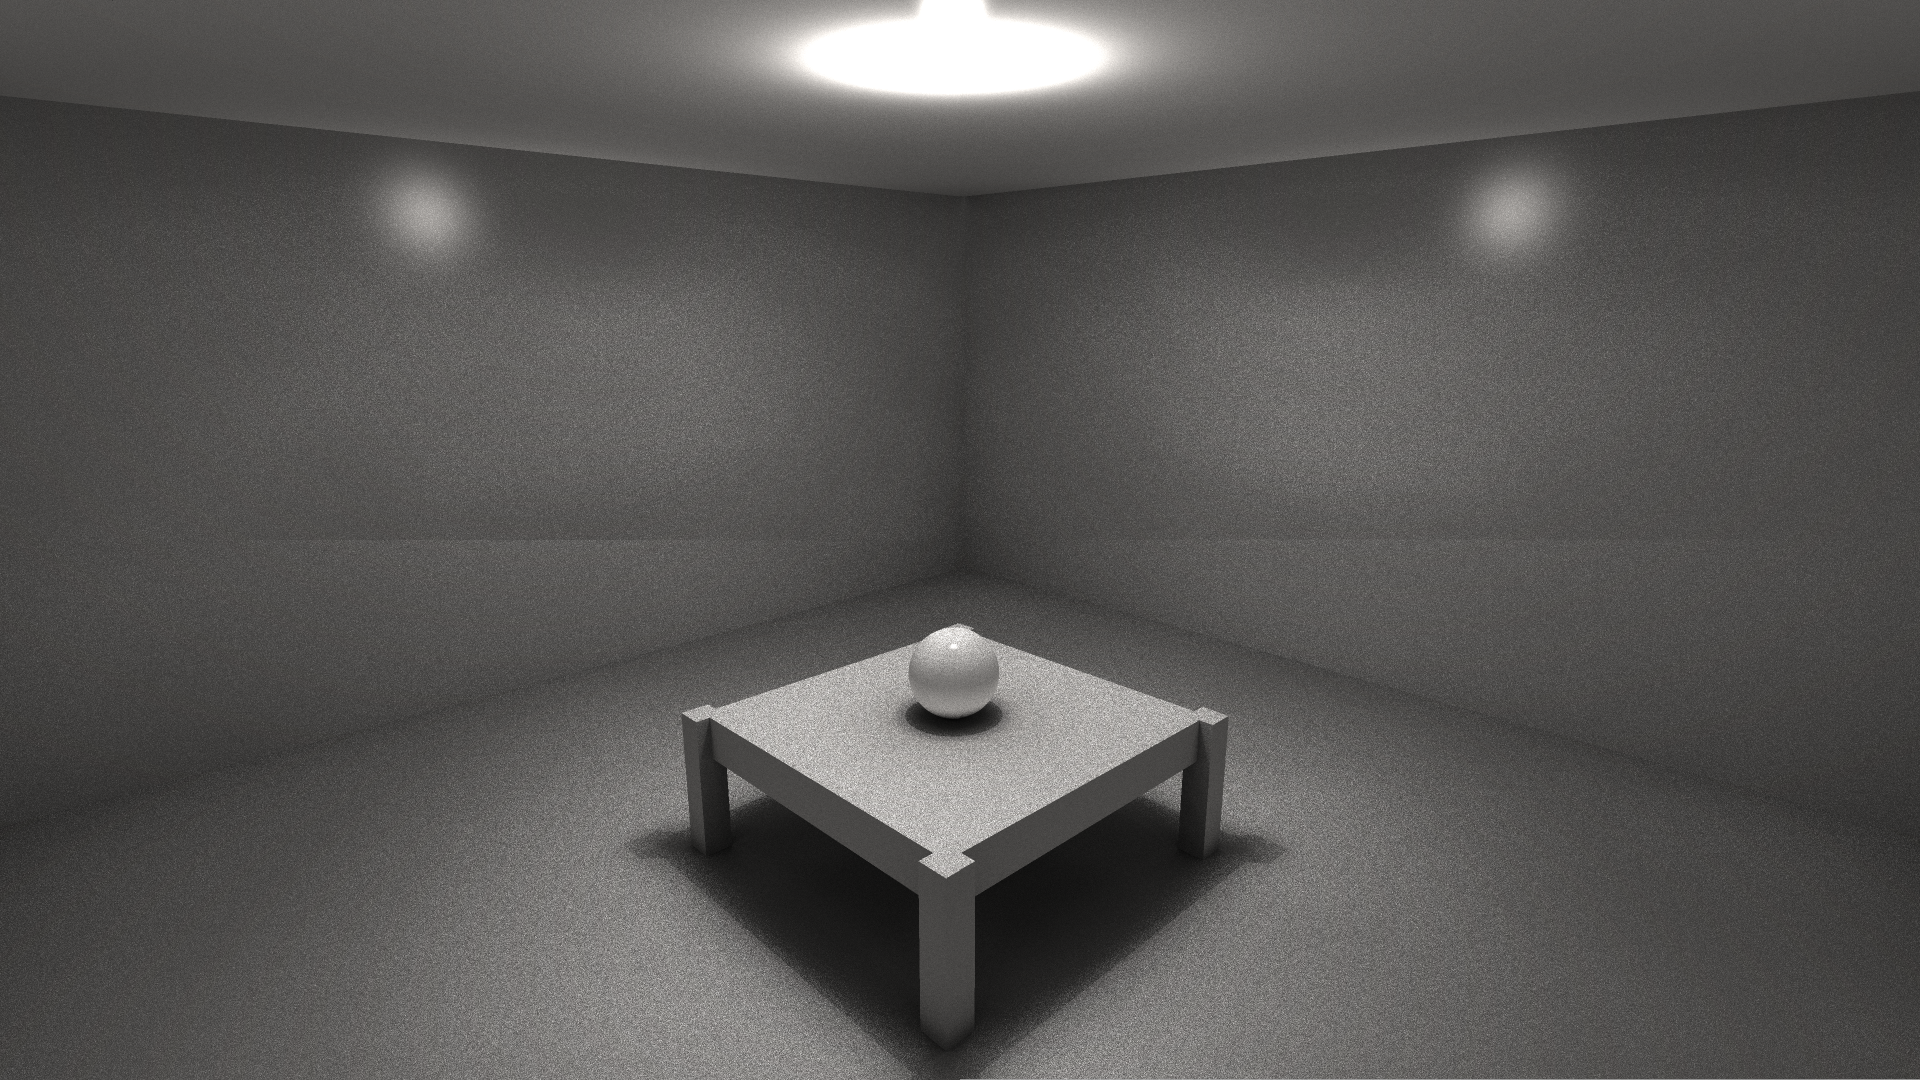
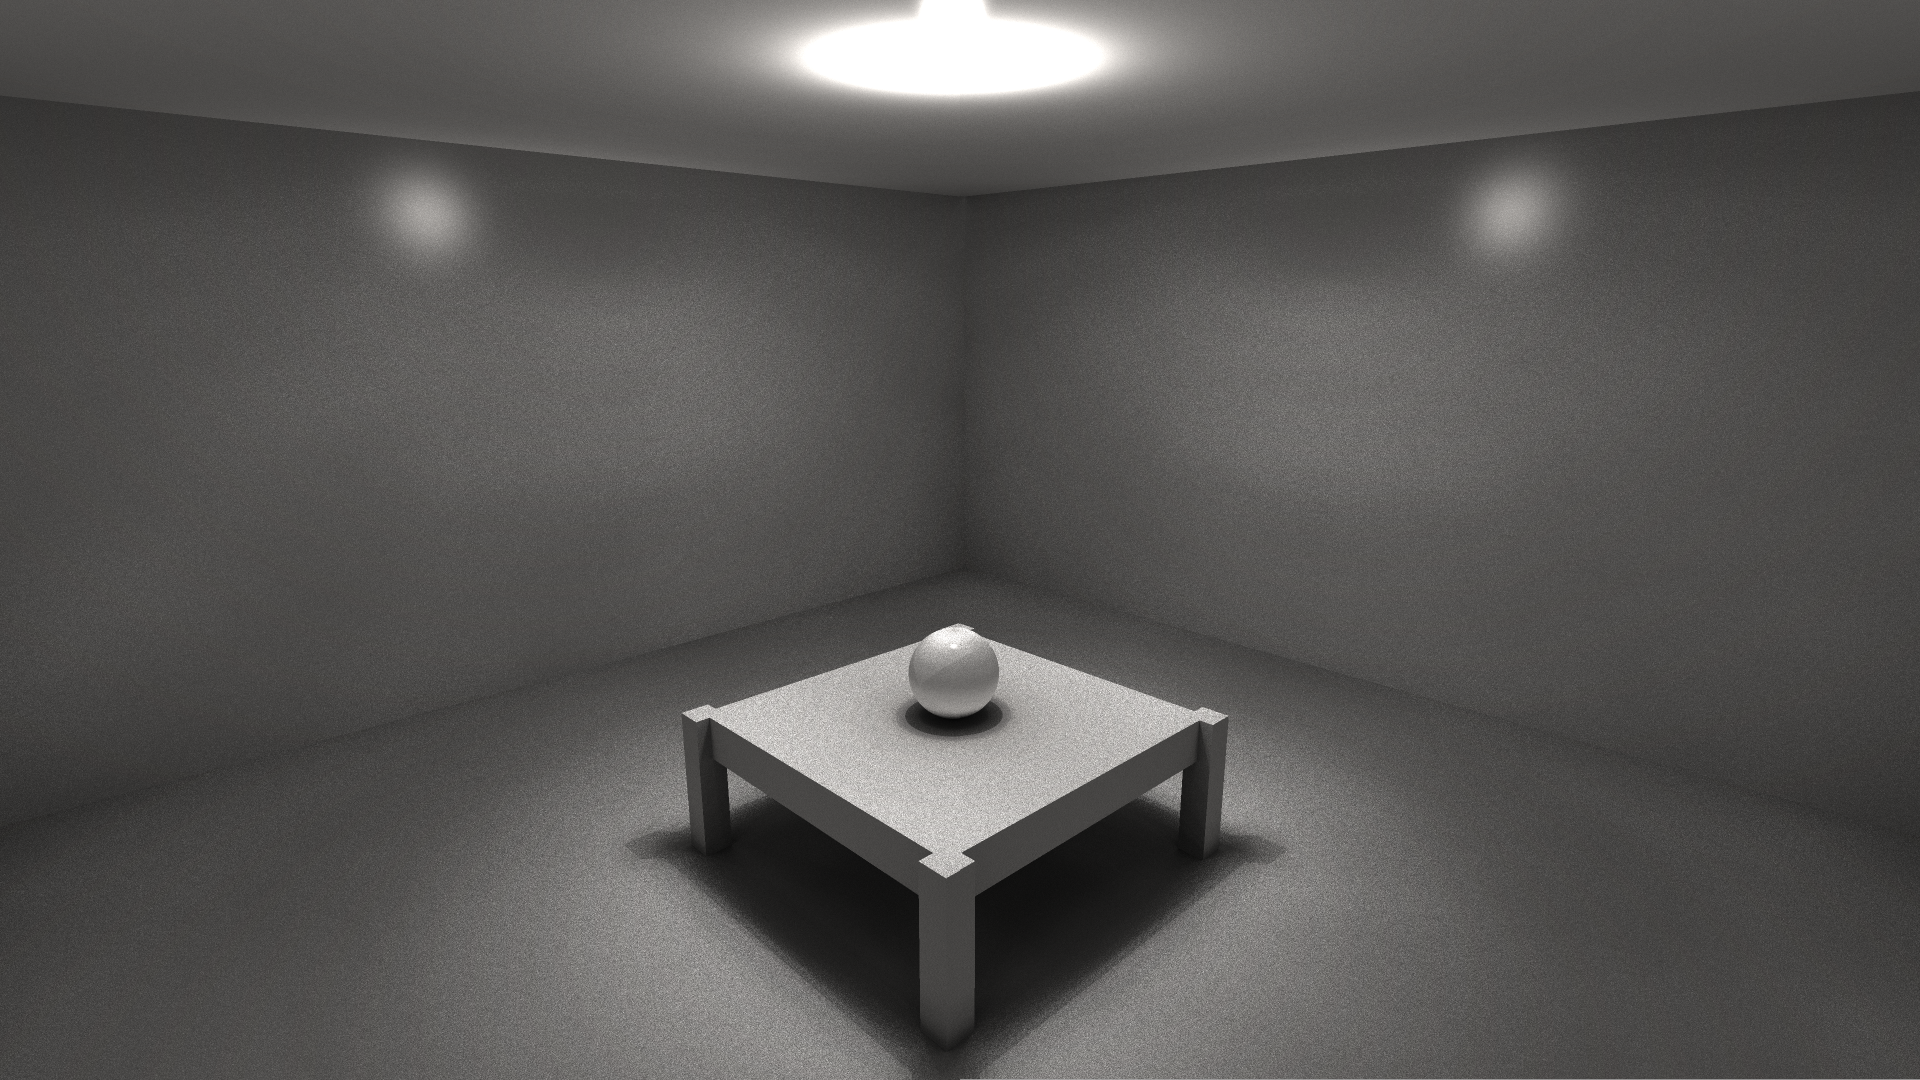
wip

diff --git a/rencan-render/src/commands/raw/make_gi_rays.rs b/rencan-render/src/commands/raw/make_gi_rays.rs
@@ -69,12 +69,14 @@ impl MakeGiRaysCommandFactory {
             gi_thetas_set,
         );
 
+        let (rand1, rand2) = self.give_random_numbers(sample_number);
+
         buffer
             .dispatch_indirect(
                 workgroups_input,
                 self.pipeline.clone(),
                 sets,
-                self.give_random_numbers(sample_number),
+                (rand1, rand2, ctx.app_info.size_of_image_array() as u32 * ctx.render_step),
                 std::iter::empty(),
             )
             .unwrap();

diff --git a/rencan-animation/src/lib.rs b/rencan-animation/src/lib.rs
@@ -421,7 +421,7 @@ fn init_app(instance: Arc<Instance>, screen: Screen, msaa: u8) -> App {
         //.then_command(Box::new(rencan_render::commands::SkyCommandFactory::new(device.clone())))
         .then_command(Box::new(rencan_render::commands::LightningV2CommandFactory::new(
             device.clone(),
-            128,
+            256,
         )))
         .build();
 
